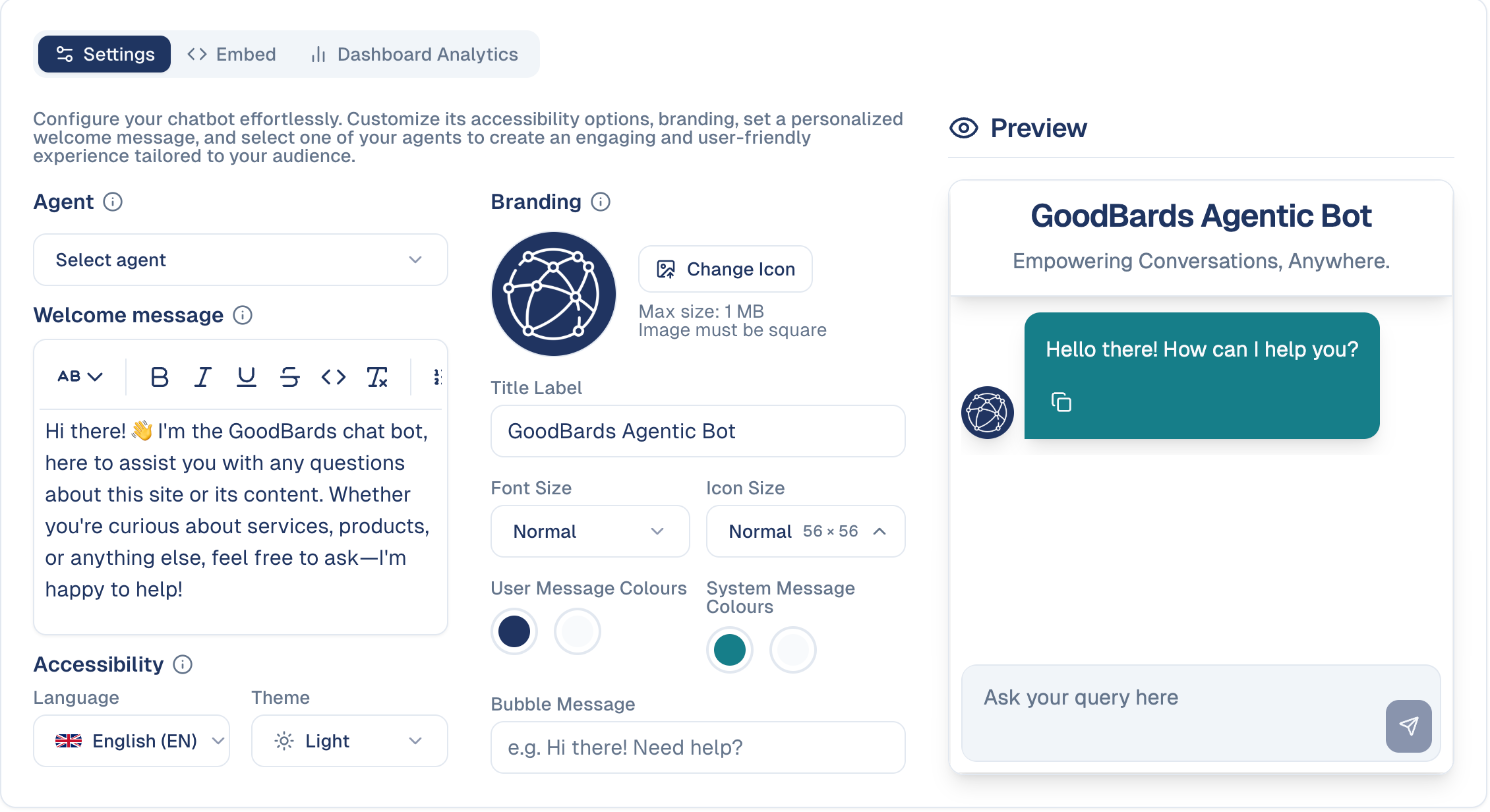
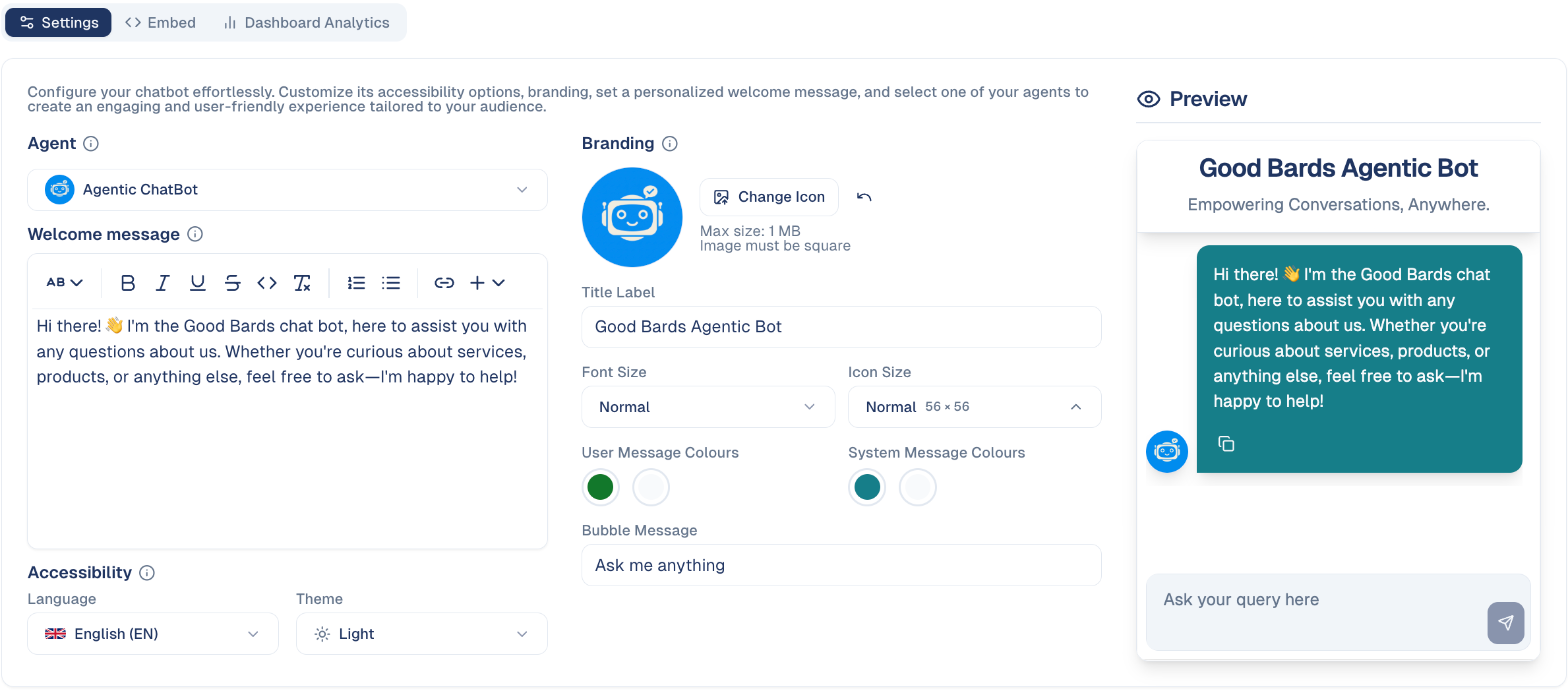
waba

diff --git a/docs/pages/tool-box/external-chatbot.md b/docs/pages/tool-box/external-chatbot.md
@@ -13,10 +13,17 @@ to match your brand.
 Because it is one of your agents, it knows your business rather than reciting a
 scripted FAQ.
 
+!!! abstract "In short: three steps"
+    1. **Configure** the chatbot: agent, welcome message, colours.
+    2. **Create a key** that only works on your website.
+    3. **Paste the code** into your site, as a floating button or inside a page.
+
 ## Before you start
 
 - A chat agent to put on the site. See
   [Chat Agents](../agentic-ai/chat-agents.md).
+- A company administrator, to create the key in step 2.
+- Your website's exact address, for example `https://www.example.com`.
 - Someone who can add a snippet of code to your website.
 
 ## How to configure the chatbot
@@ -27,7 +34,7 @@ scripted FAQ.
 4. Set the branding — icon, title, colours and sizes.
 5. Watch the **Preview** on the right update as you go.
 
-![The External Chatbot settings, with agent selection, welcome message, branding options and a live preview](../../img/screenshots/external-chatbot.png)
+![The External Chatbot Settings tab: the agent that answers, the welcome message, language and theme, the icon, title, sizes, colours and bubble message, and a live preview on the right](../../img/screenshots/external-chatbot.png)
 
 ## What you can change
 
@@ -48,31 +55,110 @@ scripted FAQ.
     light and dark themes before publishing — colour choices that work in one can
     be unreadable in the other.
 
-## Putting it on your website
+## How to create a key for your website
+
+The chatbot on your site needs an **API key**: it tells GoodBards which company
+the chat belongs to. Create one for the chatbot only, and tie it to your website.
+
+1. Open **Tenant Settings** from your account menu, then the **Security** tab.
+2. Under **API Keys**, choose **Create API Key**. The number of keys your plan
+   allows is shown above the list.
+
+    ![The API Keys section of the Security tab: 0 of 10 API keys used, the note that keys cannot be edited after creation, and the Create API Key button](../../img/screenshots/external-chatbot-api-keys.png)
+
+3. Fill in the window:
+
+    | Field | What to put |
+    | --- | --- |
+    | **Description** | What the key is for, for example *Website chatbot*. |
+    | **Scope** | **CHATBOT**: the key can only drive the chatbot, nothing else. |
+    | **Restrict to a specific origin** | Tick it, then type your website's address under **Allowed Origin**. |
+    | **Expires at** | When the key stops working. It is set five years ahead. |
+
+    ![The Generate New API Key window: description Website chatbot, scope CHATBOT, Restrict to a specific origin ticked, the allowed origin https://www.example.com and the expiry date](../../img/screenshots/external-chatbot-create-key.png){ width="420" }
+
+4. Choose **Generate key**. The key appears in the list, with its scope and its
+   website under **Origin**.
+
+!!! warning "Type the address exactly"
+    Use only the address, with `https://` and nothing after it:
+    `https://www.example.com`. No page, no `/` at the end. `https://example.com`
+    and `https://www.example.com` are two different addresses: use the one
+    visitors see in their browser.
+
+!!! info "Why tie the key to your website"
+    The key sits in your page's code, where anyone can read it. Tied to your
+    website, it only works there: copied to another site, it is refused.
+
+## How to put it on your website
 
 The **Embed** tab gives you the code to add to your site. Send it to whoever
 maintains your website, or paste it in yourself if you manage the site.
 
-1. Under **Embed type**, choose how the chat appears:
-    - **Floating widget**: a chat button in the corner of every page where you
-      paste the code.
-    - **In the page (iframe)**: the chat shown directly inside a section of a
-      page.
-2. Under **Select API Key**, pick the key the chatbot uses. Only keys with the
-   **CHATBOT** scope are listed.
-3. Copy the code and paste it into your site.
+### As a floating button
 
-**In the page (iframe)** only works with a key restricted to your website: a
-**CHATBOT** key with **Restrict to a specific origin** on and your website's
-address as the **Allowed Origin**. Other keys are not offered for this type; if
-you have none, the list says so. To create one, see
-[Use the API](../guides/use-the-api.md#1-create-an-api-key).
+A chat button in the corner of every page where you paste the code.
 
-## Seeing how it performs
+1. On the **Embed** tab, under **Embed type**, choose **Floating widget**.
+2. Under **Select API Key**, pick your key. Only keys with the **CHATBOT** scope
+   are listed.
+3. Choose the copy button at the top right of the code, and paste the code into
+   each page where the button should appear.
 
-**Dashboard Analytics** shows what visitors have been asking. Worth reviewing
-regularly — recurring questions usually mean something is unclear on your website,
-and the answer is often to fix the page rather than the bot.
+![The Embed tab with Floating widget selected: the Select API Key list and the script to paste into your website](../../img/screenshots/external-chatbot-embed-widget.png)
+
+### Inside a page
+
+The chat shown directly in a section of a page, for example on a *Contact us* or
+*Help* page.
+
+1. Under **Embed type**, choose **In the page (iframe)**.
+2. Under **Select API Key**, pick your key. Only keys tied to a website are
+   listed here.
+3. Copy the code and paste it where the chat should appear in the page. You can
+   change `height` and `max-width` in the code to fit your layout.
+
+![The Embed tab with In the page (iframe) selected: the note that only keys restricted to your website address can be used, and the iframe code to paste](../../img/screenshots/external-chatbot-embed-iframe.png)
+
+No key in the list? It means none of your keys is tied to a website. Choose
+**Create API Key** at the bottom of the list: the same window opens, with the
+scope already set to **CHATBOT**.
+
+![The Select API key list when empty: No API key restricted to a website. Create one with your website address, and the Create API Key button](../../img/screenshots/external-chatbot-embed-no-key.png){ width="560" }
+
+!!! note "The chat only shows on the key's website"
+    Inside a page, the chat appears only on the website the key is tied to. On
+    any other address, including a test copy of your site, the frame stays empty.
+
+If the frame shows a message instead of the chat:
+
+| What you see | What to do |
+| --- | --- |
+| *This API key is not restricted to a website…* | The key has no website. Create a new one with **Restrict to a specific origin** ticked. |
+| *The website address on this API key is not valid…* | The address has a page or a `/` at the end. Create a new key with only the address. |
+| *API key not provided.* | The code was cut when pasting. Copy it again from the **Embed** tab. |
+| An empty frame | The page is not on the key's website. Check `www`, `https://` and the spelling. |
+
+## How to see how it performs
+
+The **Dashboard Analytics** tab shows how much the chatbot is used and whether
+conversations turn into leads. Choose the period at the top right, from the last
+24 hours to the last 90 days.
+
+![The Dashboard Analytics tab: conversations, leads, conversion rate, average messages and bounce rate, the Conversations vs Leads trend and the Conversion Funnel](../../img/screenshots/external-chatbot-analytics.png)
+
+| Block | What it tells you |
+| --- | --- |
+| **Conversations** / **Leads** | How many chats started, and in how many the visitor left their contact details. |
+| **Conversion Rate** | Leads divided by conversations. |
+| **Avg Messages** | How long a conversation lasts. |
+| **Bounce Rate** | Chats where the visitor sent one message and left. |
+| **Conversion Funnel** | Where visitors drop off, from the first message to a lead. |
+| **Conversations by Hour** | When visitors chat most. |
+| **Visitor Metadata** | Their language, browser and platform. |
+
+Each figure is compared with the period before. The dashboard stays empty until
+an agent is chosen on the **Settings** tab and visitors start chatting.
 
 ## Good to know
 
@@ -85,6 +171,16 @@ and the answer is often to fix the page rather than the bot.
   talking to a person.
 - **Keep a route to a human.** Some questions need one — make sure the bot does not
   become a dead end.
+- **A key cannot be edited.** If the website address is wrong, revoke the key
+  under **Tenant Settings → Security** and create a new one, then paste the new
+  code into your site.
+- **Revoking a key turns the chat off** on every page that uses it, at once.
+- **Keys expire.** When the date is reached the chat stops answering. Note the
+  date, and replace the key before it.
+- **Visitors on a computer can enlarge the chat.** The floating button's window
+  has an expand button at the top. It is not shown on phones, or inside a page.
+- **Changes on the Settings tab apply without touching your website.** The code
+  you pasted stays the same.
 
 ---
 

diff --git a/docs/pages/website/momentum.md b/docs/pages/website/momentum.md
@@ -14,6 +14,8 @@ they are moving.
 
 - **Google Search Console** and **Google Analytics** connected under
   **Connections**.
+- To write a follow-up article straight from Momentum: the article writer
+  (**Content Workspace**) in your plan.
 
 ## How to read it
 
@@ -34,16 +36,37 @@ first, so the articles stay on the page's subject.
 
 1. Open the page's card.
 2. Under **Next logical development**, choose **Suggest articles**.
-3. Each suggestion shows a working title, why it is worth writing, and the
-   **rising searches** it is built on.
-4. Choose **Create** to open the article writer with the title, the suggestion's
-   description (under **Instructions for the AI**, where you can edit it), the
-   searches as keywords and your page as source material already filled in.
-   Check the brief, then choose **Generate**. Credits are used only from that
-   point.
-   Or choose **Add to Action Queue** to write it later.
+3. Read the suggestions. Each one shows a working title, a short description of
+   the article, and the **rising searches** it is built on.
+
+    ![Next logical development: two suggested follow-up articles, each with a working title, its upside and effort, a description, the rising search it answers, and the buttons Add To Action Queue and Create](../../img/screenshots/seo-momentum-follow-up.png){ width="560" }
+
+4. Choose **Create** on the one you want. The article writer opens with the
+   title under **What is it about?** and the suggestion's description under
+   **Instructions for the AI**.
+
+    ![The article writer opened from a suggestion: the working title under What is it about? and the suggestion's description under Instructions for the AI](../../img/screenshots/seo-momentum-create.png)
+
+5. Scroll down to **Sources and model**. Your page is already listed as a web
+   page to read, and the rising searches as **Keywords**.
+
+    ![The lower part of the article writer: the page listed under Import web pages, the rising search as a keyword, and the Write It button](../../img/screenshots/seo-momentum-create-sources.png)
+
+6. Change anything you like, for example the angle under **Instructions for the
+   AI**, then choose **Write it**.
+
+Not ready to write? Choose **Add to Action Queue** on the suggestion instead, and
+find it later under **Actions**.
+
+!!! info "Credits are used only when you choose Write it"
+    **Create** only opens the article writer with everything filled in. Nothing
+    is written, and no credit is used, until you choose **Write it**.
 
 The suggestions stay on the page until you choose **Suggest again**.
+
+!!! note "No Create button?"
+    **Create** needs the article writer (**Content Workspace**) in your plan.
+    Without it you can still choose **Add to Action Queue**.
 
 ## Good to know
 
@@ -73,7 +96,6 @@ The suggestions stay on the page until you choose **Suggest again**.
   says so.
 - **Plateau and Declining pages** get **Add refresh task** instead: a page that
   is losing ground needs an update, not a new article next to it.
-- **Create** needs the article writer (Content Workspace) in your plan.
 
 - **Momentum counts all visits**, from search, social, email and other sites, not
   only Google search.
